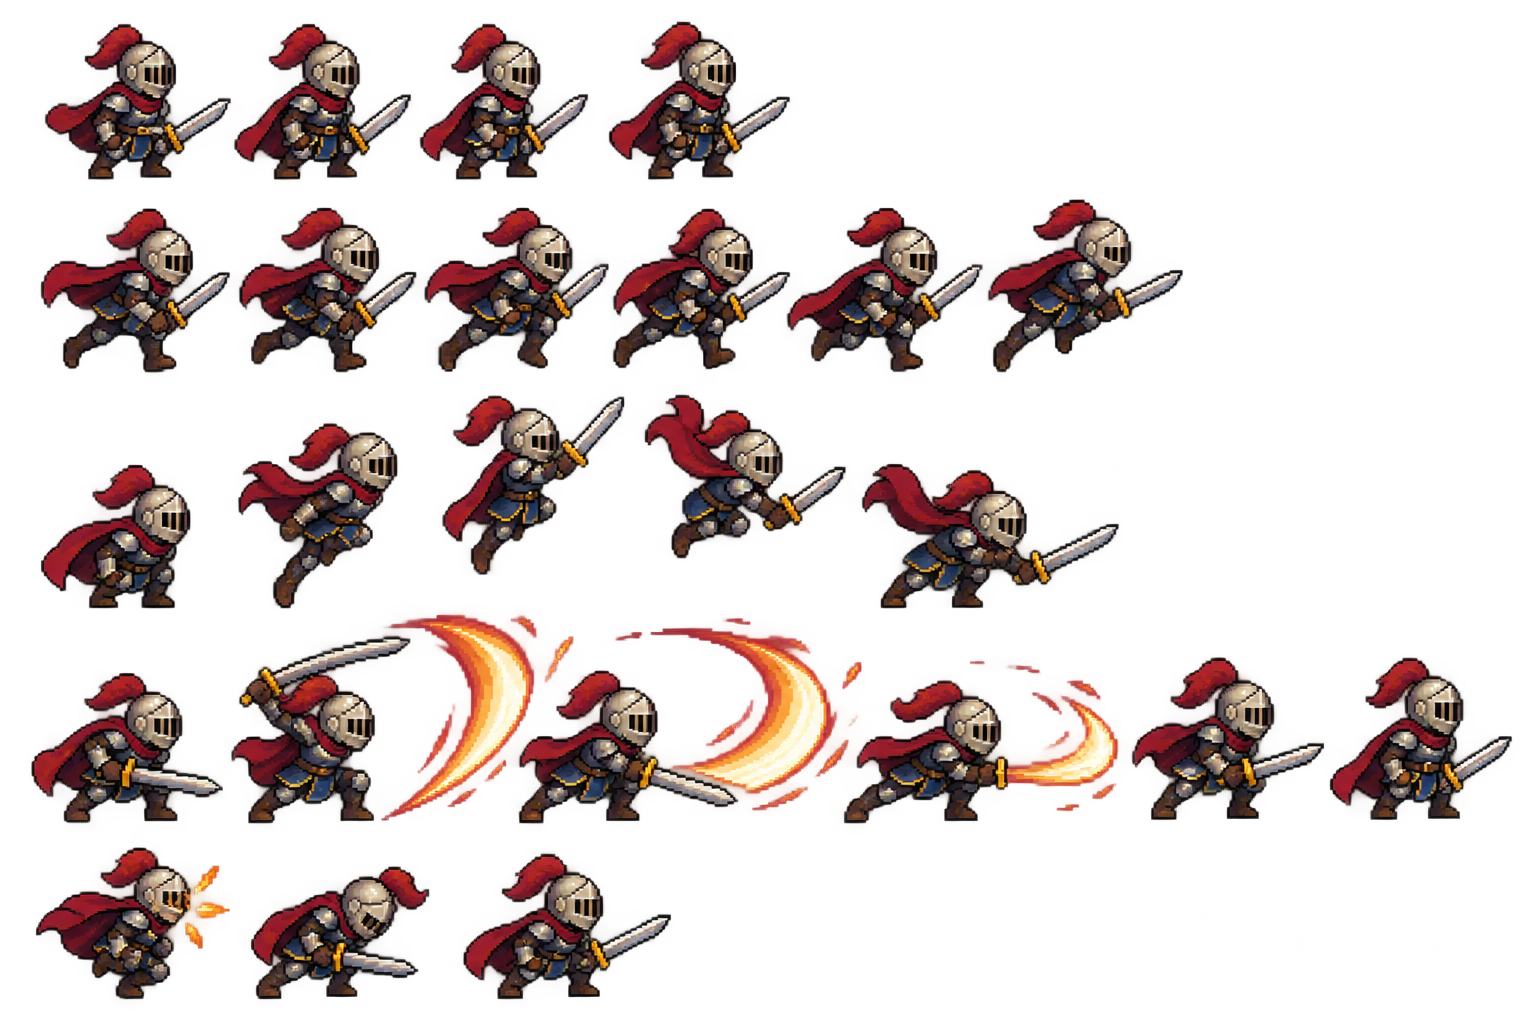
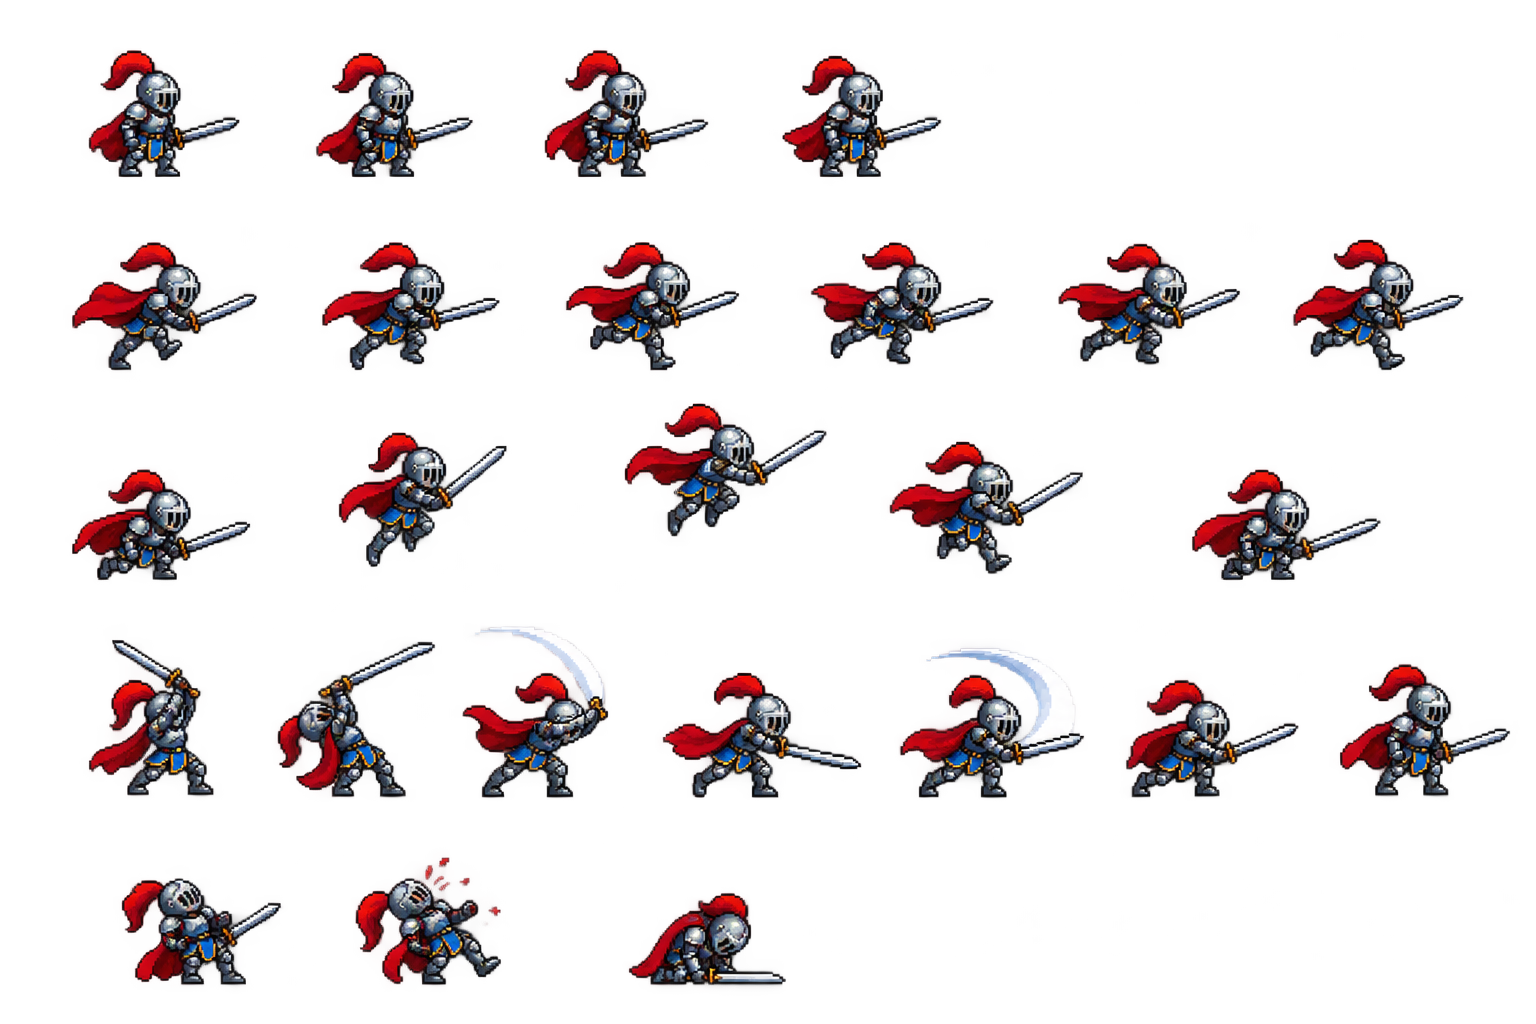
스프라이트 시트 교체 및 프레임 정보 갱신

diff --git a/Labs/LEC08_Animation/animation_viewer.py b/Labs/LEC08_Animation/animation_viewer.py
@@ -4,22 +4,22 @@ from pico2d import *
 # anchor_x: 프레임 왼쪽 끝에서 두 발 사이 중점까지의 거리 (x 보정용)
 ANIMATIONS = [
     ('idle', [
-        (46, 845, 184, 154, 83), (235, 845, 175, 155, 80), (421, 845, 166, 155, 75), (609, 845, 180, 157, 81),
+        (89, 847, 150, 126, 59), (317, 847, 155, 124, 66), (545, 847, 162, 126, 66), (783, 847, 157, 121, 67),
     ]),
     ('run', [
-        (42, 652, 187, 163, 76), (240, 653, 176, 163, 66), (425, 653, 183, 163, 68),
-        (614, 655, 175, 160, 58), (788, 653, 193, 163, 76), (989, 653, 193, 171, 48),
+        (73, 654, 183, 127, 72), (323, 654, 176, 127, 64), (567, 654, 172, 127, 63),
+        (812, 660, 181, 121, 58), (1059, 660, 180, 120, 61), (1294, 655, 169, 129, 62),
     ]),
     ('jump', [
-        (42, 416, 148, 143, 87), (239, 416, 158, 184, 66), (444, 450, 180, 177, 50),
-        (645, 466, 200, 163, 58), (863, 416, 255, 144, 69),
+        (73, 445, 177, 109, 63), (339, 458, 167, 133, 62), (625, 488, 201, 132, 76),
+        (890, 451, 192, 131, 83), (1193, 444, 187, 110, 65),
     ]),
     ('attack', [
-        (32, 202, 190, 149, 88), (232, 201, 294, 208, 80), (526, 201, 308, 194, 57),
-        (845, 201, 272, 142, 66), (1133, 205, 191, 161, 71), (1330, 205, 181, 161, 81),
+        (89, 229, 124, 155, 80), (278, 228, 156, 154, 90), (464, 227, 144, 170, 64), (664, 227, 197, 124, 70),
+        (901, 227, 182, 148, 62), (1127, 227, 171, 116, 49), (1340, 229, 169, 130, 72),
     ]),
     ('hurt', [
-        (37, 25, 192, 151, 93), (252, 25, 176, 132, 60), (464, 25, 206, 145, 86),
+        (122, 40, 158, 105, 91), (356, 40, 144, 126, 103), (629, 40, 156, 90, 55),
     ]),
 ]
 
